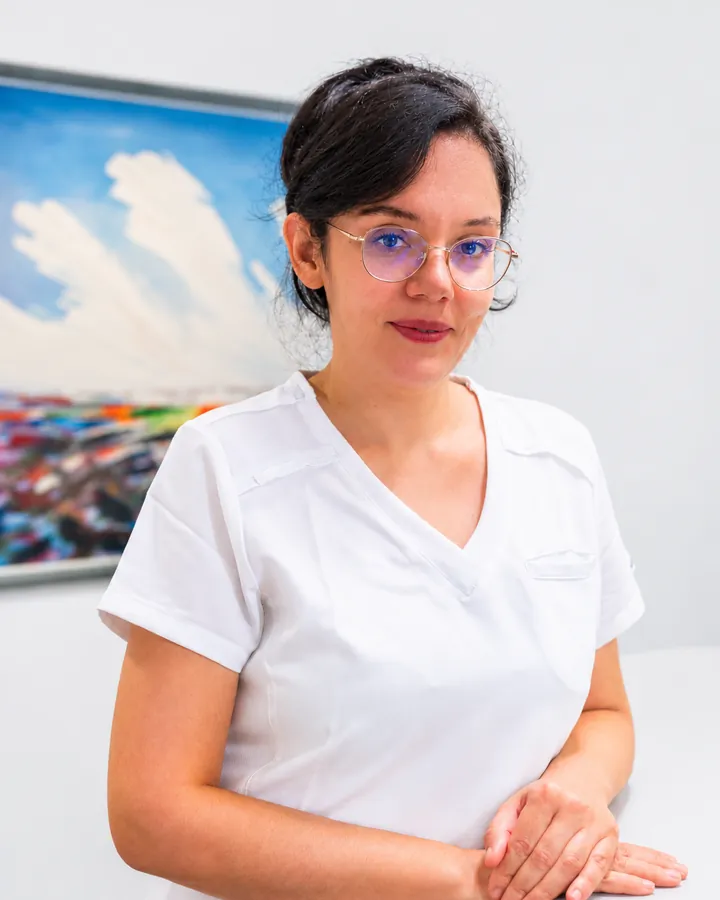
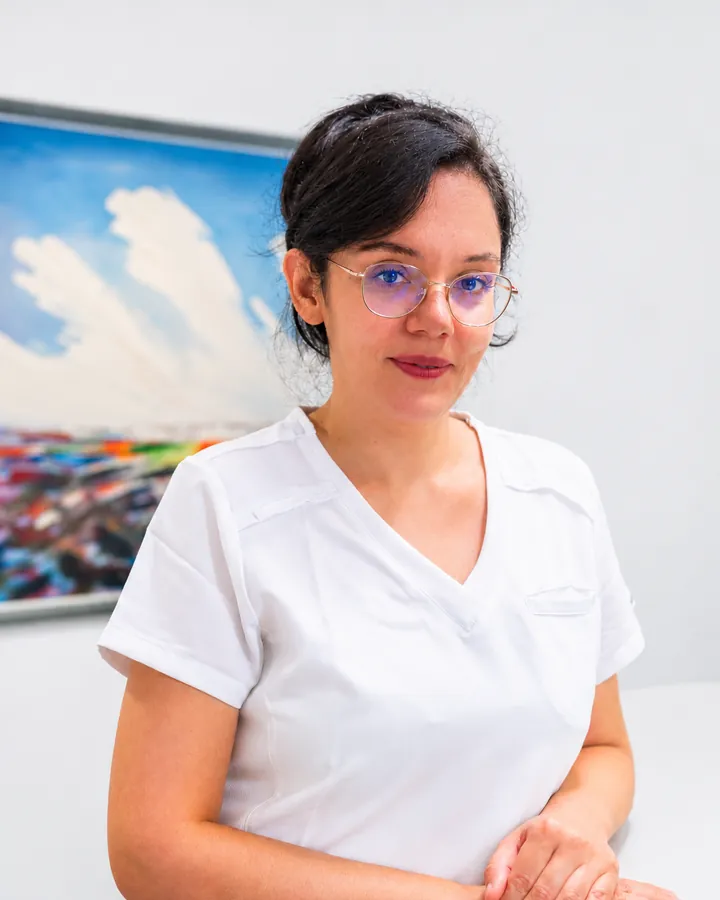
Team: Dzanet etwas tiefer im Bildausschnitt (mehr Luft ueber dem Kopf)

diff --git a/public/index.html b/public/index.html
@@ -514,7 +514,7 @@
         </figure>
 
         <figure class="shrink-0 w-[64%] sm:w-[40%] lg:w-[30%] rounded-2xl bg-sage-50 border border-sage-100 overflow-hidden">
-          <div class="img-slot aspect-[4/5]"><span class="slot-label">Porträt · Dzanet T.</span><img src="assets/team/dzanet.webp?v=2" alt="Dzanet Tabaczyk" loading="lazy" onerror="this.style.display='none'" /></div>
+          <div class="img-slot aspect-[4/5]"><span class="slot-label">Porträt · Dzanet T.</span><img src="assets/team/dzanet.webp?v=3" alt="Dzanet Tabaczyk" loading="lazy" onerror="this.style.display='none'" /></div>
           <figcaption class="p-4 sm:p-5"><h4 class="font-serif text-lg sm:text-xl text-ink">Dzanet Tabaczyk</h4><p class="mt-1.5 text-sage-600 font-medium">Prophylaxe</p></figcaption>
         </figure>
 

diff --git a/public/index-en.html b/public/index-en.html
@@ -515,7 +515,7 @@
         </figure>
 
         <figure class="shrink-0 w-[64%] sm:w-[40%] lg:w-[30%] rounded-2xl bg-sage-50 border border-sage-100 overflow-hidden">
-          <div class="img-slot aspect-[4/5]"><span class="slot-label">Portrait ·Dzanet T.</span><img src="assets/team/dzanet.webp?v=2" alt="Dzanet Tabaczyk" loading="lazy" onerror="this.style.display='none'" /></div>
+          <div class="img-slot aspect-[4/5]"><span class="slot-label">Portrait ·Dzanet T.</span><img src="assets/team/dzanet.webp?v=3" alt="Dzanet Tabaczyk" loading="lazy" onerror="this.style.display='none'" /></div>
           <figcaption class="p-4 sm:p-5"><h4 class="font-serif text-lg sm:text-xl text-ink">Dzanet Tabaczyk</h4><p class="mt-1.5 text-sage-600 font-medium">Prophylaxis</p></figcaption>
         </figure>
 
